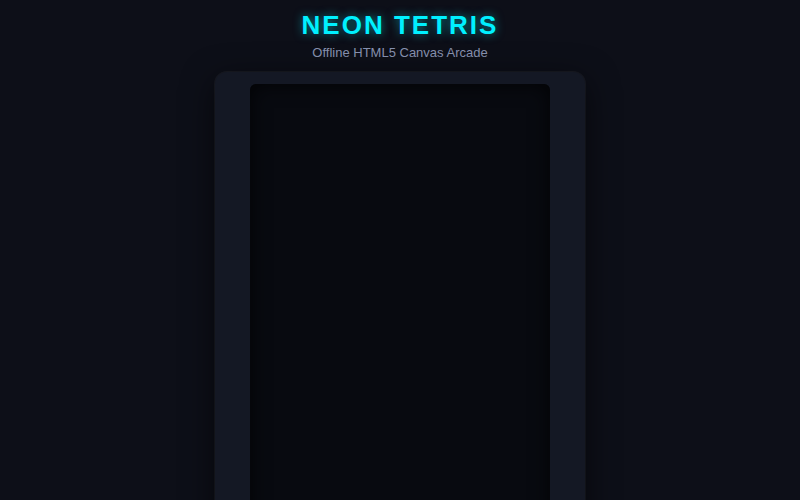
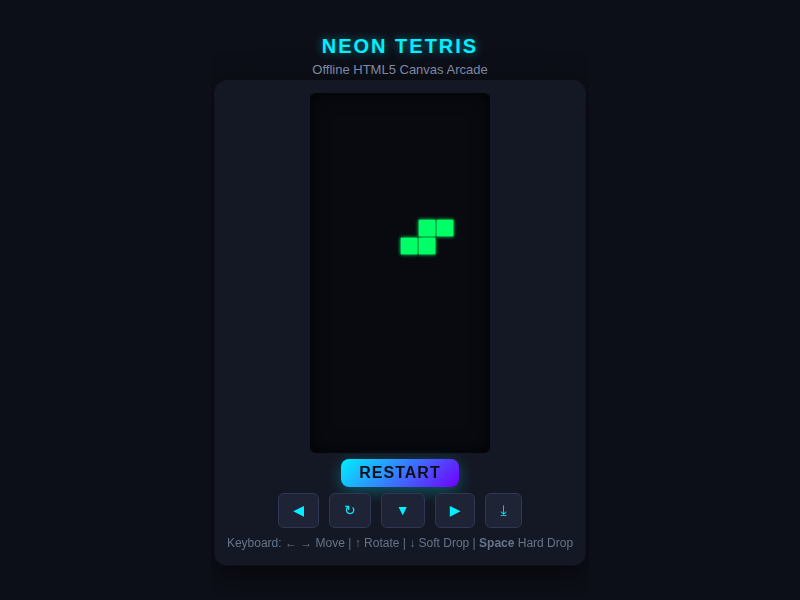
fix(player): resolve sandbox CSP eval restriction, missing assets, and auto-play responsiveness for curated works

Changed region(s): [[0.2812, 0.03, 0.7188, 0.93], [0.5, 0.36, 0.5938, 0.45]]

diff --git a/collections/sources/q1k3.play.html b/collections/sources/q1k3.play.html
@@ -1,2 +1,7 @@
-<!doctype html><html><head><title>Q1K3</title></head><body><script>
-eval(Function("[M='VwwomEHG~ztJrqG]qbjMMuJb_o@SnxnKaOWVj~}oXhOp|ePy[ykD?V?w~mLVrEAiXrDZn^uUtLhBU{wjTxEfiHdAyNb_zw{ztTbkLs^sNK@B~zZGwNExuPyleY~HU_}zFwZEZe]Ehyy`HgFzL}|HAVPVDJxKL@XTuNxWzYgMPx@Q{nvevvF]TwnVugHAMlg^KJ?QB|x|xbbuYzYBj[T`fprFJAfx}ZKrtYEquTFyNQ^|BypTwqWbAlE?O_uQUJK^PfLT}GtlFYLsR{ISuDC~ekJYFD_FLYzAQHN?n|nL}iVbHCwiz^IrAYWwpaRfFmDtN][qMM@PhECNqugaK~^AAIkGPDJZt]yJybvc[XZFO?gXfYuuCR|n|jQkqhpsAG}MnqEOz{hK[H_BdpmTIGnE|{wmfwlam|FlWuIeLxzDoA_Ymy}RKk{RB{CIi?@Y^kHaSQQ}}?bxM@]mHbWGry|dAiIM}hMEV|bSJFpO^qCIOmNaArRD{fGodd~QLOBLJU@MLOHEeFPMKABN}vzzhNI{hWEucHEDnAJkfEPUE?Kt[wcfhUMGDdy{KZsa_yODnoM`PoG{dU{eWATIs]HQEy~EF~mtvTLwLV|GmDU`x[`VMP~G@Xj~jaViZP~mj|GAkd]mHryOrQb~?|KIHKZsRSfHQUxAjeuwxtzIy{kETJ_q}HsTHNyGpgVF[NwEsO}OZgRJBOpDfjm_FYWqRUJ{dizLovBLAvfarEVDwQtacvb@VSgVjihGJX_SkwuMpONiMnrlRfueo?X[UcnIfHltKQ@JD@]JmuGJOApmJ}KULZx?nEGAJskBfrUuDSQohN@n|PqOYHRRZU{bs[kOdjR{FiXnDrhBdTQgnPxuHJEyuJOJ[zztIYj~ASH_VTBeZdytIe?aqJ?D~mIN_]_gJP}H|~cGBpjVpHDlRvKMOraFHz{P`Yywh~[DPdImiji]eYM}pEQ]XGhEXM]qmG`MGxAdgDV]alOSC@f{AL{tH]z}utWqFNmHH~oOsrZqvMfPtJZMwi{S]D|FeFR~@D_~o}Aw?OkJA@y|fRPZ?{[xLYeCnpQ|rc@NlJUtjhASz}Qkpj?v}}WyvrFUdNe~iir{qQlzu?tgLICLxhOZbS?TxOEBygzieNeTFfpamzi~aQbjoRTtuB}fWMIRbf`ifhNHsulyQiV^feLS[aJtvOGBEUjP^ZtbTiyElZzyQJ_XzPf_GKPuQQVeImknER{jIq{MTJ_iOIg?G@[vnHKvzErJUQ{^adaOlcFLrahrLLIEKQmBZA`Wmbn]TZytvTSpditHf|yFFc}JhGECracV[TQlWbQRQzHM|UiS]L@aImWI?swdXCKVvqFNpj`If~[g~PkeO}`jZpriZzBMYOMV?`lXveJXpcS?oDrL]Pg^MOkdmKDpPfHrfWOLSIJkUfOaDNDR|c`cBJDatOko`^qlc_o[mOuB_YfgQWBJAk`oIU[]X|Smj{C]SWbObYR{MiybAaQoKmIE[xKEX?t`gjMmP}}OKsWlPWGlFDjoYB?CfGEIhNkchc_ANQt[oaMC_WrI@wfaGContGvD_sE??LjKLY|huJ{_?w_V[fhSsYP{@FQ~NukyRmqd~LcECw}]BNzaC]hz@IuiC~XyoYpE[p]?rrqBkQcFpQBGjAxpA[_AbL`JyTx`GyKM@{wDBREB~Wdh@ZXcEuAJ?AsGg^}nPtXr_NTt^rmc]?S[@hzhcgx^Pmdh}uut@ly`c]GtspJZR^TK`YqPbQIB{{ZpttanoBSOoTVBsC]GN_P]hVZYzgUVxBdvCioHuRCb_erBq^aVavQp[q^DF`KN[k}O^qIxnF?@~[xIBGNDUBwqyeyOPXHkZzJXbrKyJopdgtY~CG}g[mFbuMn^cotCWpwji|zpJ_r@ok@e{ZnZae@IYO[V{a_KdBZuVGxn{ktHVPzll?`YetuZMmM}@Hm?JSyzn@VlWas~E~MS}Pdz[Cm^Oa~DKaEBbtcDks]U[OkP[gIZFppZ`HFBBLNUtEwP_C~HrAdiSXFE_A}l[lVLn[]hqiIj|KG`zCddjD^TiPDOuAdyslImECqBtdzivaq_i_hJxinTK^BzbWIfx}wyTn_YFzjgiMGo_kZzB]HeCDdbn?_RaooAGXg}hsmz^HADVskEYMpKKr`a{do]Gknm~v{ivOuxfw}pRZHqu}v~ibyvDhkPTdyILG]|x@tw]Ys[wJkzQQH^^GKhOLacc`tJvu]mhGZ}UhudNM`P@Q~N}YJAS~VcVvMG`EAz{pt|ZVVgPLSbfUji^fsf^?U[PoOani[o|Lr]WgVVSjFXYh^}~GIOLxCUH^mbqnKhXDOhjShidkeJwabbMPobU@D^TMEUe`ABjhRTw^PsMC{nfm]zEZgFYm]tnugHvirZ~HeY`~x?VpwWkgwHYjpot_MCnnV_vvkT`yihGaFUuwoctPAkIgreNueL?OOOLg|Z{KpNy[`}?JwV{{oMcFRVr~jpTaxlA?j[Jj@vjXnb[nD[gSiBpIDDwf[XC|Qg}AmhD]LS?nu@XyqU}]vyh]AugQORTpuKDiwghZYx[?gRQKFistlyUKTXHbYxfMi[ymn^ghOXWkoa^f{irFoRbRZySF~EKtkgKhO]|^THccQJoPl_ekaEKNBpUSKwmN}KeaWt|_aWAiMxW}JjRTgZx^SeKrL]wDq?Qt|xVegKuyfKMKhzAzVvxLcJEiB`^MB~Ju}dr|ZXQ|QIuiqdo_~Oz[yPB[LqMIfXMDrojelEAbNNae[IDVabwhPW`j_?cW?U@A?BsgLPjwr_qhJIIm|@MvYVHlSrehPhb^@Fa}SsCwnF{OP}HOIP[WzkEo[L_bKgCwNl[lrEWnAfL`nYVfQ?lDvIwFmEQbYltAvC~PCPncMmuUXxsQdV^fRgU{DedHyYI]VRAfLhaPHCpydkM_?okKTKVNFfZ]{GpX{sjK]obVZqJZRwYdb|pGJIf^kxi{qUBz]?[VpOCXz^ED?VGQ~WyFSBQ~TQ{v{Z||vEgSkBm~hkLBZA]}Dni{jENbyxMEH@{J@KVfu}{WGssoSaL_XB|RlxALHKsjJiJK]OKTvNlymfHSi{qd[OpEavbDH{udwSGFTANRhLqvZlkeSeRwB]DQbyqg~Hl?Q?KX`?vz|Cb}]bo}LtfsfPiXyswuXu|u{v?t_EjC@VFfZoKWyfU^waSBOFj{]~VL~XXlX]aTP?j[lhLrquhC[qq}TNBkkG`CtgbA{`ZW?rpYT|avOAvOmklIYCCnfJbCK?KpOWDN`INfYsLpJYXhabFYNCPf]@hcUW}NknBO][Sa|PVlURdbeqyjuCTADSbFp@LH{D{C_MrkRMFzKA]QiKYKalIbnPF|u|{r`lMlyyDwIuaFg_GGR^keJzl?ByEKgu]SC[Ix``HX@nWOzvRWKJBGRTBPKj~?sYeUdEB`mcq`HrVWYndwyGVSG?kjY`RwCNuzZk~M}PUMpCYx`TSBojTNG@v]_}MQOK]rc@KgnTzvMFFdeQh[Shj[WNLAlL@ZQ}HkCOG?K|PuNF_]^sWgxiVIFEpriqr}^YcvwtOvSKmn]{H?tqkgaM^`kXbpEtTkrykpBmHKf|]qPAU^{pUCXYMxPEwS_WHVTW@v{wrm_plmhCU]nmpTLiqBT~Vh`aj~KhrNfkLmKQWKI?ZXJ{HdoHmbslVsdgrwyYNruuMNc|Z[oIuvvqutJn^kVBuBSyD?[HEBmnDdxhan@pXIa`PPI_RM`KKBHbN|?GBg@cDjornCxRxONpYLqhn@qxOEKZl@HkZZ|m}raJNjvBzklxSLFgRL{okALnzIahUEBTyyufvNGbTC[ku}OGuJDhr?WcyvLSrkZ}F}rhUmtDmkMetwjWwo|UVkl?oWK`igsoOCL@I|oEDKRQYf{py}mOQu`GetwIaoAqG`D]XrLcA`|av^[fJgTQf[zin?[HzC?bFkcCT@ysojCcts~~S@dPAxIuoRN~E^rvGqsoWsyiZYFRkVMydZOApR~GMAEmHCbq|Zzqd}rDHGW_G]JMC{sppfBDN@@l_ZQZ^|bpxzCut?t|bVrR@`AbAaVsRQ_AxSlVxl[RKLCSr_qOJH}qqtZGhBmm|iSxNIkJgcR]`OckVM?IyeiKtcJWeu|BOcw`QSI_^`gLHExSVbmtOO}VK?uXSIEYGaCIU@IkiYApdugdvAMOZKODyy~zPQK^k}Ibli|_pM{b~IBaVb~V|HMyiEQwsbYMtVvMuwCdP_aADhnfvS}sKsPB@QB}B@ZF[KbTyMBtTF^`@iDLvSkHgQcO|SqpDlk`ZA^LC@DCt_r^KAkZweRliQzVOB[R[j@jhx?LoKp]hNY|`rKB]YQY?FEeeDSqQNGFXshNYVOn}RghLaDBK}}SecvKlPFU|EydNZn?yNwqDLoPwBRJryrwA@ITrOK~@sJMZFxpF_jqp_ncQeJoZVyJU?c~[Dt@QhjTtEQ|^nmjbhQ|jSN~]AFFUg?pyHJ~_HuRotXKRljf?ahV~RbYtLH`WktDuGtnqg``^zhdux~tyy`|U}nsULAPAQfjnq[L}vsrBN[B_|Ww`jtJYQux^~fGMpc]`ddAU~zc}?sMrasZrh{CMDdbGfBJ{sN[@hmp^mrr@@VmDW~fmlMbHBygIn]VBBzOfPmcR]HcM@FlrgDxjF{yrvDSrjPw`oaqBHBhyQZX{o~Jf]XH{w_LtllkZg[?I^DaIVaEa~xMJPAFqH}kVfTvlCMbZsh]ANhZVWYHWjlQvw|ANiZB~uwVpCy|}os`RnCRqzd|@tCLwV_tcLyimW~|_cXwRYw@iBBR^QZOi`hrxIvV^LZVRaAe?~NV?fvsNcLdWjid{uui]v|xdPoTTKwgFyTE}n~DX~o|aBBizxabvOJ}WzugTb^]TXRGiyrK]GjDLBtpSV^RHTyXw[hlNqL@AsHX_}ZsS`xhS}QChgDla}}WWeJcDJqwGkK}oQrHeKt~wED[p_wuDwdNau_@PPYMPfbzKvgaCfEVSWwaCzhfmFUNepvuVaSjJmQn|WZUxQZ]Fm|jXKRyWcnlmGgrR]h?JcMOMH`wIglT@{r`VRUdJaczZTEbL~xpxE{IztzGysZHMd{ntTdTy[tfiTmXnvOek|aACCglMHfaPv[BTEu@kklXDWEWhKjj^utRpjd{roYnsrCbyJRh~~iVWJ~xJ||MMo^mb{SgieZFWynxpcX@yJ{m~IH_UrtQL]QFHileX}N]QbxJ`|K`aBYk@IEYx?aiwZYfbwkugPv~qa?NENewHOx@WebyTFGiqGfashb``N@`FhhxPp`yfNMi?Gx}~YlzKouZcUPnQviOD_avHlSkih@glmK}r~mDIKmu?j`t?qqhVps}BZ^MbutqNPJqox@mH]Xtf[PageqRzqOTWskLjWk{IW{jYPw?|QGbf^DEiYglZKAG?ZZstuPeMblf]|Wst^CtqpJL@AhIZWrshe|`SwKDytBDJDNqzHoNavO}q^lsaiEl_R_y_[qmG~YM[CJtcdne^JT}fqA|HPpdKTtcaMH~pfHdSAfggFHqR{YfGQjHw@^NbUVZNHoRoTRWfPP}D?cUwwEWLQ?lj@AlSex@gROKYTzsBY^}VKW`LuGzXwRY^YGpapzTgoB@_hvtQWItDWPIeCWJHDBk[HVjxgmuQ^Lf@ifd}lyBwSTJ^oqYolrUlb_DoGILK[T]bb]Wb|XRaKWXjjFz^Izlcbl}FYTAKtTx[UcdTxuiz}u~ehVOowuFF~F}l[tG]uJK^ElAQ`{IKfNWc@nyFPdYwuOa]`vJ^b||StTHr~N~YUDqBhF[ktK|Ga}xzApiv|bF`K?MtT`{B{@YN?`[VOLiQW[nIL[jfcdlIaXQ~{pnaxoe~IJGDFvLfd_[aU`FITQFilGjE?[ze`GjjaAW_zCtPqHNygNFJkkxlwo}X~Kxu@^P]jtA}DKeatAcNO}og^W]fXuEq~g{RAOBt_bmqf^PirkRYcFDkOiIMsgugw[ngiO?ff^tTQ`H[zc?TQZVoFlbmDSv^eJzOHBtcr_RFNOMJ|Grke|lqQKhNQCxuhf@Zs{TOKZBbQBqLBTArFyqCyYrK^Vy?DoCBnCwE{qjO?h|jFj@sOgMTT_WQXACM~JfKtNPYKGp[BcE`dPUUSpHPVxeTZzkoyZ^MigBI@SdgcTE_xDPMrVsE]MHHAl?LuhF_lWQTnaxAaSSWA^PWxFAu[nBAE@GHtf`Ayl]WMZgDSFE_fnjtP]l?HAhx|yIfCzXh?AFASZa]~UcAhV~sAbjWNJkOw[VXVUf{A^M^@P?SIN^oyhChJpqUH}H^MEIf`JBJFGmtwQ?~ln~~Xps}kIZSM_XhYhlYDZmLRGNZdmYa?XlQXGR|zspetOixtlqSorQjzK``bhXCyvhOUuqx~rnwxgiOyz_EArSmxcYapeSS{KgV[?URYRKM]Kkv@@h@fwTksZ_inepCcejxEP?hk]XWH|vIDSHiRmrglzdiWXTPJYKFjb~NbcrsVa~_sMi@iFqEPIbuWNkHDsRW`XrNOWmJ^hK?D{d^E_gvop_?ztZ}NNDkQaMTms_Hi{[}binScGGq?llhia~tZw_JYqiwA`x{NVNSH|b}dXI~[^hml_iCgUud^{BI}zLTEaWo@zk^j_zlzRG]rAxoJ{lsgDdGkqJt`DQA{v@SpfmxJzLebCuHFFg``{qQqQFeGceLpiiHizgqv~[TXT`?A^oHu@uj?F{zcBzvK^jlr}^V_^pfd]vZiVWeD_SXmj_WZvzLIMOZw{]eQgJhHfTmY|wAREfNmqdG~hoFJM[JDIg]araY|FOpBGOu_kem|q^LVaXQCB}tcExuVrEt[}BIu`^ho_Rdwt?NresKXULg^WP@rqDDMhhqXGKVO`fR?JcOIIZgCDRQ|F}SKPa]VLYoJ}i?JXM~iLOIOZ]yghMdSkx[bhq@y]ZLHTtSTiotuTVBCCx{{j_n^L}iitDE}C_KTMjVZGAFVyiho?|}VDSJmNJiAFrD@[MC~OsncL|TzOJBXRAoLv^dS`}}mfh{]DOVedAfMb@tYAQOfek[hi}}Jl^[AVkBEMB@rfgEfm`uJ?DOniepeG_SLmyXzpwCuJ?vECPlk~~gLsuqC~uatHLiji@?XY^VNNdckjrrjfi{XHtm[bji`pTdver^@wVXPovJK^eG`MH^BCD^bMac`C_iGuPt[WcUI`fCFCVH@LbOOKmihHKIn}FiXw_vfEz}BXmzcQZ`i||Z_Zjvfhu{h~TbbUJ[tUVyqK~pUCfPo^|hpjSSyKyNsvqxbF`TxxW~I?DZcJGEtHZ]UZqXlXsQj?fyYoo^BiHwVhp_~nI_x_EGpbRuZDBDLqzqnf?KB@llVgCtbOmmCwEthsyU[EZF@uZdxk|gSwjd[K]QuZciKNwM~Kq]dFRu`fjFpU|bGy^srV_kU^UMy`e]SDHl_vh]?TyDVUd^tNxjwalbKGXfhQ]Eve`{wS]kHVQQXgifgMqWtB^TWrWgAlOh{~[rFe_T[?`Ov[L]hdog{zVKUknuS`ndWq@Oih{RJN@kMvzKz^FWwwAaWHuM|WE^cumNq@~zwsOPkyCqyHtCOL@cxeAz`kw`@DBxMqUrHLAw@cBxptcw[qXyoqiiLlftlJwfZAbjOQbKj{oFfyk?ba?_X~hMTQZTAP@LZ{`AB}yNxElPWRxMTHXcGhqF[CnaDXplXGGaeSKHzWDK{mh]LRKsKF|GEe_ZAhscwZRchQH[OywqmXa?E{?fcKqZdDmuNl?lk[VXW~|]BVEh~maIS}txoh_upqApX@[VcYervwCKptqehKM{wBWx`ICii{ot|pg^`mSjQ]An[wDrga_Vs@aLhdSSx^NLL@|AN?|zjyuWi^?q_|nf|fDlpaiS~`ZbPRKc}VNMoVcWQiYCZLzZU?Ebh}lhWHHq}]qTUEb^vSiCcjP]pBZA|CelkaIZISFlIOP_Y{YfNg{UuLG{aBK|xJMRddjAf`nPy|[L@LhThjD[NEfvG~LxVRQqwuBZhPUXa`UXiOFmDvpaaFmT~VvJCp~_~e^?bQT^Q||TJUqEi]n`TfL@@HuJVGqqCadDSU{Sqt`DgunSkHYj`kQNwfGNuLtDm@rkzMv`XoUjwJUwosTY[V@~IkPmsflY@a^BlQGXTtW}^@|K]^{PxTTuiGKuaT?`tCSYZxb@gmEU`]Nz@gmPzx`gkFMd}mvkbhFMD?yEirXQaKm|[SACkhDczqPRSxiTCQxPnR_?K@?|LUeveZQhUNhSGNGzW]}kbBVMyZOul~DDLS@r[UaLkJoPrYQyth|K}pQ`q]w}]GynlBydqqsLoBBk|TYBcSGVKwYVFNX~GEvHYnnGjaYIfD]n~|MbhnIxVAphbe`n]i{RlanUHXxam~p}QIEInHrAksCGBxMQgp^ZzGWw{hLCmLwwVQOi[elUIQnJEuiqtIroKGoo|fqIFYHHEvZTbhjTJZe@g[zFKbh?biQlAa_S]QyUzAtLrkzpXOTq@SQ}rHehgmqoYJxntEgMB}UXyrm~ipYniNOIcHeRTrAL^U|?fLWd|@}CpJIkoGKI|uvd~sgwZmqWtq~dZpmCCLzcZyNRiO[OghRtJQngW}LDtJeVsSUnobcmRWFe^WkBOoALYPA^eCBGqdR_fecttmNdGY]Zxrhxbtoa}gnJ|wMgTkgRlko`SvN_g?ILSIjAf]moYnnSwwT]gE}]`AtrboX]ylbZP[TUeVHO^PvXUYje|V_`_t^qaVo]_PlxGiVEqbULvczNfRkTbBpHvadbsNM`huPkshEuhRgU^xDnV_Bq~CRhjMfZFIdlrcumagumd@uoxvftlilRYTfd^ZNAskxjWM_REemyXJLqNvmJg?PXKhjRVaomvYACGbIidKKjDUubPKw[HNfVXE_Gz{qM?QstsRz]|ABf}rfASLX[{[mb|fDcfjtK]`NuaHZJLxyFj?nzSXuzsQjfxybc}MXGmvx[~~LUW@LO{Fg|{cJcKc{aHpqIUg{lYLrcvFp{elX|LkuVaKj]rE`sniXUlJ}?aoOVVI|FtwJPm?qk@FdXkgA@?E[zojU|Ld[|EpD]lUouMTWJpfZcoFYvFZ]TtL~Y[?W|ItVy|lAhe^dQYg`ex~K@WHGlZQJDsGpcBlFvflzx{jAkUOwnzbFv}CBjGwxghlkNB^`BxSxFzJ{~CeFUMHulSezMqTUkiuFu~HzIWyK?WuTTp~cobGrXZvL?q]mX{wbGQ@RlJCfUvMd_mAFuqvbqnTS~wjIeW}o^AyQzwWXOmdm]G]OoHMF?htGa^pSodAgODpebEjUGcnTnfDZFCy?gxoj{mMtJrVaIzaQFESLOH@pVc]lSDwr?o_Hdrt~Lx]Ykj^crrSCBKLzweeXzkjUOiVvYsDF[HazTn^XB}Wl|QBu[FC[uZliVZ@|OGmJrkcR^nwviUr}l|nim[ffSeuDz~|Hu~?r@FDmuXyPXwlBw}lNtIzo~E|V_C~cSnw^ud`nU|zv^yxWSSVCKqPqXbipofEhG@K}mWfBbxlHuYS^t]gCrTtYpnjcSAyiJaTojbV~EruwdWZUJCXInX{eq[usrO~^HEJjE?v^]PH?tqQ[FbjbhCAh]csdMZ}VYYnfegMSzmMcmzgAHTO@hHuZcUCmok~bW^Z]Ay?co@LHOKvmaElxvbi?RZpBCjem}qohfwkdjfXLFfEILBBqfJnsaVyI@~bxGmWVwCU|jC~igfGcsxVsWa@ZQrduCxB`sX}JNgyV]sRct^t@gWFncLycbzZn^eu~|ONq?{HQvrtky^@]SfnL|CWzjRw]o^NyGpxGunfWv`f?JHlTUpPJy~eWHd_LhMXaiuM}U^^[rjlTPgIaoys]WDzD|jEA{TFnadYjAc?lahpi^qqrWJj]|jWVetRHIRp`Wz@a~lXdXZDu^LSy^kcZd`mbqan?ttkn}cZEfwa_~N{Z[{tfLaJ|OW[jN_aCYRSySpiYzIlWA?giz[IE[mgixTGrRqTYSCV^~hCFkYIjRtDeHW{^EzfiU`VC{V@{YtZ`Au^{Q]dJ[fvbNSX@mgHSQNqugquzq_mkVoMtM@}UizzNdMRYS[?^i~UBlre[yaGwukLb[woMkptwLi[U]Y{?sfs{QQFg{Znk]qjvgKIEM]XDZJuHpGBJieNnWqi]~]zqOrMK?IR[UG[fh{fy|vSaAOTC[tJuGhpdUOHIsfixKaSyU|y``vhYLqvO^cRxLuzraY{KrgHAAdixuu}EoINzcDsoWKGG|PMv{[]tGEO}Lx|AtvrgegXFCt}{rlqhkeH]CUG@}hM{]M`~dsYvTDk`Z[RxR?r@QUYAf~APu^d~{SBA^xKGscbTiRbLzsi`krEx}QSqvz`B@cGFJdopOsIFLNWIcAH^tOW~]MXwYNL{[eWw^pf{Kayude[GhmINoDVe^?pWyKl}PMTbM@TuiKoUjWakbtXSqYim|JkVnzJI|KhUsWfTpKMY[P|ZvJZUqrCc]vdcIumOQzlEKNUtBxXkHQ~@v]ej^_kEXIdkPHa@kYzKLkIzN^@qfsnGwkM^NPKuVpHxhBKLwzUx^vSMQzqqReeFiK[ofRoHG@P_fRW@ndmzrosAcrKxc?}||jlFfuXqeWPYreUU?{WjsSNBbar}zJB[CY_yF`~]gcnOL[vlak^l[LpEcOkAdsLTGNxgGyiOtdjlwV~_[[R[TCy{ojbmw~ldaTmImWFJeKy[MR|WgpWFEcVEmTYlceT~dzm|C`dd}UldSjndYthd[N]RJlrECFTH@JIXiy}cHlwskIku{[J^nrVgPQOLf[foNYUBeRK{^I^sgHL`?t]yJOqR~PddeGCZsky{Gq@TlOMl?Fx_y_cPBrnL?gWLhQ|xp@Z~PPLTm}@SHQtPjOiI@UmbA|hgC^MOrGFuheYXWGONehUdRgl_fgzs@GoQ[WasZJj|oo[ZrSS`TYA`?^nJHEGFZsNtYwE@WKgEgONCt|fS~EeuI_sKajCcwhOot[kamVLQzq{`H|bJw[vHgjOBqrBpWqSplwrVK[Nmcaec~ZxY^h]iCPbbVvQOntEJa_x|?K}tCRwjWr^wNB|a|d|lThx|?pgDi`cIwe^Q}meTQ@F~@wEcd@zDPPoZIdy@XDXoJ~]YY|`]pBTzxQtvyUSUgZjy{f@zH`k^`Tzamaf~xAmxMFkfIKGBwPzQPPPVsMoIwHOy|X~FRfkIP`iunHgaJwDY|lFqw~_`['",...']charCodeAtUinyxpf',"for(;e<23471;c[e++]=p-=128,A=A?p-A&&A:(p==34|p==39)&&p)for(p=1;p<128;y=f.map((n,x)=>(U=r[n]*2+1,U=Math.log(U/(h-U)),t-=a[x]*U,U/930)),t=~-h/(1+Math.exp(t))|1,i=o%h<t,o=o%h+(i?t:h-t)*(o>>15)-!i*t,f.map((n,x)=>(U=r[n]+=(i*h/2-r[n]<<15)/((C[n]+=C[n]<5)+1/19)>>15,a[x]+=y[x]*(i-t/h))),p=p*2+i)for(f='0102021032104310432052106542076109651098632'.split(t=0).map((n,x)=>(U=0,[...n].map((n,x)=>(U=U*997+(c[e-n]|0)|0)),h*128-1&U*997+p+!!A*129)*12+x);o<h*128;o=o*64|M.charCodeAt(d++)&63);for(C=String.fromCharCode(...c);r=/[^-]/.exec(C);)with(C.split(r))C=join(shift());return C")([],[],1<<15,[0,0,0,0,0,0,0,0,0,0,0,0],new Uint16Array(51e6).fill(1<<13),new Uint8Array(51e6),0,0,0,0))</script>
+<!doctype html><html><head><title>Q1K3</title><meta charset="utf-8"><meta name="viewport" content="width=device-width, initial-scale=1.0"></head><body><script>
+const __DATA = {
[2 lines of base64/hex data omitted]
+};
+gs=()=>{document.body.innerHTML+='<style>*{font-family:sans-serif;}a,body{color:#fff;background:#111;text-align:center;margin:0;}#c{display:block;width:100%;image-rendering:optimizeSpeed;image-rendering:pixelated;max-height:100vh;object-fit:contain;}#g{position:relative;margin:0 0 32px 0;font-weight:bold;}#ts{position:absolute;bottom:2em;left:0;right:0;font-size:1.2vw;}#msg{position:absolute;top:8vw;left:0;right:0;font-size:1.2vw;display:none;}#a,#h{position:absolute;bottom:3%;left:20%;right:0;font-size:3.2vw;}#h{left:-20%;}h1{font-size:16vw;margin:0;}</style><div id="g"><canvas id=c width=320 height=180></canvas><div id="ts"><h1>Q1K3</h1>CLICK TO START</div><div id="h"></div><div id="a"></div><div id="msg"></div></div><p>MOUSE SPEED: <input id="m" type="range" value=10 min=1 max=50> INVERT: <input type="checkbox" id="mi"></p><p><input id="f" type="button" value="FULLSCREEN"></p><p>code: <a href="https://phoboslab.org">phoboslab.org</a> / music: <a href="http://no-fate.net">no-fate.net</a></p>';let t=[[64,64,0,2,3,1.4,2,17176,1.3],[64,64,38751,1,18,4,2,2,27,9,65530,0,7,1,-1,9,13,5,52,8,8,65528,39039,4,0,0,0,64,512,15,4,0,0,0,64,64,14],[64,64,38751,1,18,4,2,2,27,9,65530,0,7,1,-1,0,13,64,52,64,8,65531,39039,4,0,0,0,64,512,15,4,0,0,0,64,64,14],[64,64,13119,4,1,0,0,64,64,15,0,24,11,17,50,65523,2,8],[32,32,21839,1,0,2,10,2,11,4,65528,10,25931,4,0,0,0,32,32,14],[32,32,17487,0,1,1,30,30,65528,11,21580,4,0,0,0,32,32,15],[32,32,30015,4,5,0,0,32,32,15,1,5,4,2,2,22,6,65522,0,8],[32,32,8751,1,1,1,8,4,11,5,65524,15,17487,4,0,0,0,64,64,15],[32,32,13119,4,4,0,0,32,32,15,1,10,3,11,6,25,10,64536,64568,65519],[32,32,8751,1,1,1,3,3,4,4,65524,14,21565,1,1,-1,15,1,16,16,65522,7,0,1,-1,0,1,15,16,6,65521,0,4,4,0,0,0,32,32,15],[32,32,8719,2,63506,1,4,0,0,0,32,32,12],[32,32,21295,4,10,0,-4,32,298,10,2,4372,1],[32,32,8463,1,-1,1,35,1,35,4,65522,10,34399,0,-1,6,34,6,65526,2,34399,2,29479,1,4,6,0,0,32,32,5],[32,32,5535,4,0,0,0,128,64,14],[32,32,8463,1,0,0,3,3,4,4,0,10,65521,0,4,4,23,23,10,64885,21551,3,4,16,13,0,11,"::][::",4,0,4,4,26,26,15],[32,32,8751,1,1,1,8,3,11,5,65524,15,17487,0,9,6,14,13,15,65525,4383,4,0,0,0,64,64,12,3,10,11,20267,0,8,"---"],[32,32,17487,4,5,0,0,32,32,15,1,4,4,3,3,22,22,65523,7,30587],[64,64,38767,2,36875,2.5,1,4,10,15,8,39,59,15,15,8463,1,3,30,14,5,15,6,12813,4367,38671,0,20,1,22,6,13119,10,38671,4,0,0,0,64,64,11],[32,32,40975,2,63308,1.5,2,63751,7.3],[64,64,13119,4,17,0,0,64,64,15,0,0,29,64,64,0,0,89,4,4,21,-6,22,24,15],[32,32,13119,4,9,0,0,32,32,15,4,8,6,-22,21,32,15,4,18,0,0,32,32,4],[64,64,13119,0,0,0,64,64,0,0,64271,3,-1,50,33795,0,32,"XXX",4,7,0,0,64,64,6],[64,64,34063,4,7,0,0,64,64,12,2,12554,1],[32,32,65535,4,12,0,0,32,32,9,3,6,30,61455,0,25,"+"],[32,32,5903,4,12,0,0,32,32,9,3,5,14,65529,0,12,"NI\u0418"],[32,32,64271,0,12,1,7,30,65528,8,63247,4,7,0,0,32,32,8],[32,32,13119,1,1,1,14,14,16,32,56328,15,26399,1,-7,17,14,14,16,32,56328,8,26159,2,29706,1,4,0,0,0,32,320,14],[32,32,33567,1,1,1,6,30,16,31,65526,15,33823,1,9,-14,6,30,16,32,65526,15,29743,2,55625,1.5,4,0,0,0,32,320,15],[32,32,12559,1,1,1,14,14,16,16,65525,7,21295,0,1,1,14,14,65525,0,34399,0,17,17,14,14,65524,0,34399,2,8,1.5],[32,32,9503,4,11,0,0,32,32,12,1,1,1,6,7,6,8,65521,0,4],[32,32,15,4,18,0,16,32,32,15,4,27,0,-16,32,32,10]],i=[6014,21,88,[[[7,0,0,1,255,0,7,0,0,1,255,0,0,100,0,3636,254,2,1199,254,4,71,0,0,0,0,0,0,0],[1,1,1,1,1,1,1,1,1,1,0,0,0,0,1,1,1,1,1,1],[[126,126,0,0,126,0,0,0,0,0,0,0,0,0,0,0,126,126,0,0,126,0,0,0,0,0,0,0,0,0,0,0]]],[[6,0,0,0,255,2,6,0,18,0,255,2,0,1e5,56363,1e5,199,2,200,254,8,24,0,0,0,0,0,0,0],[0,0,2,2,3,4,2,2,3,5,2,2,3,4,2,2,3,5],[[0,0,0,0,0,0,0,0,0,0,0,0,0,0,0,0,0,0,0,0,0,0,0,0,0,0,0,0,0,0,0,0],[132,0,0,0,0,0,0,0,0,0,0,0,0,0,0,0,0,0,0,0,0,0,0,0,0,0,0,0,0,0,0,0],[133,0,0,0,0,0,0,0,0,0,0,0,0,0,0,0,128,0,0,0,0,0,0,0,0,0,0,0,0,0,0,0],[125,0,0,0,0,0,0,0,0,0,0,0,0,0,0,0,0,0,0,0,0,0,0,0,0,0,0,0,0,0,0,0],[120,0,0,0,0,0,0,0,0,0,0,0,0,0,0,0,0,0,0,0,0,0,0,0,0,0,0,0,0,0,0,0]]],[[7,0,0,0,87,2,8,0,0,0,16,3,8,0,22,2193,255,3,1162,51,10,182,2,190,0,1,10,96,0],[0,0,0,0,0,0,1,1,1,1,1,1,1,1],[[149,149,0,0,149,0,149,0,149,149,0,0,149,0,149,0,0,0,0,0,0,0,0,0,0,0,0,0,0,0,0,0]]],[[8,0,0,0,65,2,6,0,0,0,243,3,0,200,7505,2e4,204,4,6180,81,4,198,0,0,0,0,6,131,0],[0,0,0,0,0,0,0,0,0,0,1,1,2,3,1,1,2,3],[[132,0,0,0,0,0,0,0,133,0,0,0,137,0,0,0,0,0,0,0,0,0,0,0,0,0,0,0,0,0,0,0],[132,0,0,0,0,0,0,0,133,0,0,0,130,0,0,0,0,0,0,0,0,0,0,0,0,0,0,0,0,0,0,0],[132,0,0,0,0,0,0,0,133,0,0,0,125,0,0,0,0,0,0,0,125,0,0,0,0,0,0,0,0,0,0,0]]]]],n,V=44100,W=4096,Z=W-1,$=new Float32Array(4*W),e=(t,i=1,s=0,h=0)=>{let e=n.createGain(),a=n.createBufferSource(),r=n.createStereoPanner();e.gain.value=i,e.connect(n.destination),r.connect(e),r.pan.value=h,a.buffer=t,a.loop=s,a.connect(r),a.start()},_=(t,i)=>{let s=n.createBuffer(2,t.length,V);return s.getChannelData(0).set(t),s.getChannelData(1).set(i),s},p=(t,i,n,l,o,s,h,e,c,d,a,r,_,p,f,u,v,m,M,g,x,y,w,k,b,A,F,T,E,z,U,D,q,C)=>{let N=C*W,O=a*W,S=v*W,Y=Math.pow(2,T-8)/t,I=Math.pow(2,D-8)/t,K=0,j=0,H=b/255,L=0,R=0,P,X=(n.length,M+g+x-1),G=.00390625*Math.pow(1.059463094,i+12*(s-8)+h-128)*(1+8e-4*e),Q=.00390625*Math.pow(1.059463094,i+12*(r-8)+_-128)*(1+8e-4*p);for(let r=X;0<=r;--r){let t=r+o,i=$[N+(t*I*W&Z)]*q/512+.5,s=0,h=k,e,a=1;r<M?a=r/M:r>=M+g&&(a-=(r-M-g)/x),e=G,z&&(e*=i),c&&(e*=a*a),K+=e,s+=$[O+(K*W&Z)]*d,e=Q,f&&(e*=a*a),j+=e,s+=$[S+(j*W&Z)]*u,m&&(s+=(2*Math.random()-1)*m*a),s*=a/255,U&&(h*=i),h=1.5*$[.5*h/V*W&Z],L+=h*R,P=H*(s-R)-L,R+=h*P,s=[s,P,L,R,L+P][w],e=$[t*Y*W&Z]*E/512+.5,s*=.00476*y,n[t]+=s*(1-e),l[t]+=s*e}},s=(t,i,s=5605)=>{var h=i[20]*s>>1,e=i[21]/255,a=i[13]+i[14]+i[15]+32*h*e,r=new Float32Array(a),a=new Float32Array(a);return p(s,t,r,a,0,...i),u(h,e,r,a),_(r,a)},u=(i,s,h,e)=>{for(let t=0;t<h.length-i;t++)h[t+i]+=e[t]*s,e[t+i]+=h[t]*s},r={W:1,p:1,A:2,e:2,S:3,o:3,D:4,i:4,Q:5,E:6,c:9},l=[0,0,0,0,0,0,0],o=5,d=6,v=0,M=0,x=0;document.onkeydown=t=>{var i=r[t.code[6]||t.code[3]];i&&(t.preventDefault(),l[i]=1)},document.onkeyup=t=>{var i=r[t.code[6]||t.code[3]];i&&(t.preventDefault(),l[i]=0)},document.onwheel=t=>{.1<tt-x&&(l[o+(1<t.deltaY?1:0)]=1,x=tt)},c.onmousemove=t=>{v+=t.movementX,M+=t.movementY},c.onmousedown=t=>{t.preventDefault(),l[7+t.button]=1},c.onmouseup=t=>{t.preventDefault(),l[7+t.button]=0};let y=(l,s=-1,o=0)=>l.filter((t,i)=>s<0||i==s).map(i=>{let s=0,c=document.createElement("canvas"),r=c.getContext("2d"),n=t=>"rgba("+[17*(t>>12&15),17*(t>>8&15),17*(t>>4&15),(15&t)/15].join()+")",d=(s,h,e,a,...t)=>t.map((t,i)=>{r.fillStyle=n(t),r.fillRect(s+[-1,1,0][i],h+[-1,1,0][i],e,a)});for(c.width=i[s++],c.height=i[s++],d(0,0,c.width,c.height,0,0,i[s++]);s<i.length;){let t=[(t,i,s,h,e,a,r)=>{d(t,i,s,h,e,a,r)},(t,s,h,e,a,r,n,l,o)=>{for(let i=t;i<c.width;i+=a)for(let t=s;t<c.height;t+=r)d(i,t,h,e,n,l,o)},(s,h)=>{for(let i=0;i<c.width;i+=h)for(let t=0;t<c.height;t+=h)d(i,t,h,h,0,0,(65520&s)+Math.random()*(15&s))},(t,i,s,h,e,a)=>{r.fillStyle=n(s),r.font=e+"px "+["sans-",""][h]+"serif",r.fillText(a,t,i)},(t,i,s,h,e,a)=>{r.globalAlpha=a/15,t<l.length&&o<16&&r.drawImage(y(l,t,o+1)[0],i,s,h,e),r.globalAlpha=1}][i[s++]];t(...i.slice(s,s+=t.length))}return c}),w=(t,i,s)=>t<i?i:s<t?s:t,k=(t,i,s,h,e)=>h+(t-i)/(s-i)*(e-h),b=(t=0,i=0,s=0)=>({x:t,y:i,z:s}),A=(t,i,s)=>F(((t,i)=>b(t.x,t.y*Math.cos(i)-t.z*Math.sin(i),t.y*Math.sin(i)+t.z*Math.cos(i)))(t,s),i),F=(t,i)=>b(t.z*Math.sin(i)+t.x*Math.cos(i),t.y,t.z*Math.cos(i)-t.x*Math.sin(i)),T=(t,i)=>Math.atan2(i.x-t.x,i.z-t.z),E=t=>b(t.x,t.y,t.z),z=t=>Math.hypot(t.x,t.y,t.z),U=(t,i)=>z(q(t,i)),D=(t,i)=>b(t.x+i.x,t.y+i.y,t.z+i.z),q=(t,i)=>b(t.x-i.x,t.y-i.y,t.z-i.z),C=(t,i)=>b(t.x*i,t.y*i,t.z*i),N=t=>C(t,1/z(t)),O=(t,i,s)=>N(((t,i)=>b(t.y*i.z-t.z*i.y,t.z*i.x-t.x*i.z,t.x*i.y-t.y*i.x))(q(t,i),q(s,i))),S={antialias:!1},Y=c.getContext("webgl",S)||c.getContext("experimental-webgl",S),I="precision highp float;varying vec3 vp,vn;varying vec2 vt;attribute vec3 p,n,p2,n2;attribute vec2 t;uniform vec4 c;uniform vec3 mp;uniform vec2 mr;uniform vec2 m;uniform float f;mat4 rx(float r){return mat4(1,0,0,0,0,cos(r),sin(r),0,0,-sin(r),cos(r),0,0,0,0,1);}mat4 ry(float r){return mat4(cos(r),0,-sin(r),0,0,1,0,0,sin(r),0,cos(r),0,0,0,0,1);}mat4 rz(float r){return mat4(cos(r),sin(r),0,0,-sin(r),cos(r),0,0,0,0,1,0,0,0,0,1);}void main(void){mat4 mry=ry(mr.x),mrz=rz(mr.y);vp=(mry*mrz*vec4(mix(p,p2,f),1.)).xyz+mp;vn=(mry*mrz*vec4(mix(n,n2,f),1.)).xyz;vt=t;gl_Position=mat4(1,0,0,0,0,c.w,0,0,0,0,1,1,0,0,-2,0)*rx(-m.y)*ry(-m.x)*vec4(vp-c.xyz,1.);}",K="precision highp float;varying vec3 vp,vn;varying vec2 vt;uniform sampler2D s;uniform vec3 l[64];void main(void){gl_FragColor=texture2D(s,vt);vec3 vl;for(int i=0;i<64;i+=2) {vl+=max(dot(vn, normalize(l[i]-vp)),0.)*(1./pow(length(l[i]-vp),2.))*l[i+1];}gl_FragColor.rgb=floor(gl_FragColor.rgb*pow(vl,vec3(0.75))*16.0+0.5)/16.0;}",j=new Float32Array(524288),H=0,L=new Float32Array(192),R=0,P,X,G,Q,B,J,t0,i0,s0=[],h0=b(0,0,-50),e0=.2,a0=0,r0=[],n0=(t,i)=>{t=Y.crS(t);return Y.shS(t,i),Y.coS(t),t},l0=(t,i,s,h,e)=>{i=Y.geAL(t,i);return Y.enVAA(i),Y.veAP(i,s,5126,!1,4*h,4*e),i},o0=t=>{var i={t:Y.crT(),c:t};Y.biT(3553,i.t),Y.teI2D(3553,0,6408,6408,5121,t),Y.teP(3553,10240,9728),Y.teP(3553,10241,9984),Y.teP(3553,10242,10497),Y.teP(3553,10243,10497),Y.geM(3553),s0.push(i)},c0=(t,i,s)=>{Y.clC(t,i,s,1),Y.cl(16640),R=0,L.fill(0)},d0=()=>{Y.un4f(P,h0.x,h0.y,h0.z,16/9),Y.un2f(G,a0,e0),Y.un3fv(X,L);let t=0,i=-1;for(var s of r0)i!=s[5]&&(i=s[5],Y.biT(3553,s0[i].t)),Y.un3f(Q,s[0],s[1],s[2]),Y.un2f(B,s[3],s[4]),Y.un1f(J,s[8]),t!=s[7]-s[6]&&(t=s[7]-s[6],Y.veAP(t0,3,5126,!1,32,8*t*4),Y.veAP(i0,3,5126,!1,32,4*(8*t+5))),Y.drA(4,s[6],s[9]);r0=[]},_0=(t,i,s,h,e,a,r,n)=>{r0.push([t.x,t.y,t.z,i,s,h,e,a,r,n])},p0=(t,i,s,h)=>{j.set([t.x,t.y,t.z,s,h,i.x,i.y,i.z],8*H),H++},f0=(t,i,s,h,e,a)=>{var r=O(t,i,s);p0(t,r,e,0),p0(i,r,0,0),p0(s,r,e,a),p0(h,r,0,a),p0(s,r,e,a),p0(i,r,0,0)},u0=(t,i,s,h,e,a,r)=>{var n=s0[r].c,l=H,o=h/n.width,c=e/n.height,d=a/n.width,_=b(t,i+e,s),p=b(t+h,i+e,s),f=b(t,i+e,s+a),r=b(t+h,i+e,s+a),n=b(t,i,s+a),e=b(t+h,i,s+a),a=b(t,i,s),s=b(t+h,i,s);return f0(_,p,f,r,o,d),f0(n,e,a,s,o,d),f0(f,r,n,e,o,c),f0(p,_,s,a,o,c),f0(r,p,e,s,d,c),f0(_,f,a,n,d,c),l},v0=(t,i,s,h,e)=>{i=w(k(U(t,h0),768,1024,1,0),0,1)*i*10;i&&R<32&&(L.set([t.x,t.y,t.z,s*i,h*i,e*i],6*R),R++)},m0=(i,s=1,h=1,e=1)=>{let a=0,r=i[a++],n=i[a++],l=i[a++],o=new Float32Array(n*r*3),c=new Uint8Array(3*l),d=0,_=16,p=-16,f=16,u=-16;for(let t=0;t<n*r*3;t+=3)o[t]=(i[a++]-15)*s,o[t+1]=(i[a++]-15)*h,o[t+2]=(i[a++]-15)*e,t<3*n&&(_=Math.min(_,o[t]),p=Math.max(p,o[t]),f=Math.min(f,o[t+1]),u=Math.max(u,o[t+1]));for(let t=0;t<3*l;t+=3)d+=i[a++],c[t]=d,c[t+1]=i[a++],c[t+2]=i[a++];var v=1/(p-_),m=-_*v,M=-1/(u-f),g=u*M;let x=[];for(let t=0;t<r;t++){x.push(H);var y=t*n*3;for(let h=0;h<3*l;h+=3){let i=[],s=[];for(let t=0;t<3;t++){var w=3*c[h+t];i[t]=b(o[y+w],o[y+w+1],o[y+w+2]),s[t]={u:o[0+w]*v+m,v:o[1+w]*M+g}}var k=O(i[2],i[1],i[0]);p0(i[2],k,s[2].u,s[2].v),p0(i[1],k,s[1].u,s[1].v),p0(i[0],k,s[0].u,s[0].v)}}return {f:x,nv:3*l}},M0,g0=128,x0=(t,i,s)=>M0.cm[s*g0*g0+i*g0+t>>3]&1<<(7&t),y0=(i,t)=>{var t=q(t,i),s=C(N(t),16),h=z(t)/16;for(let t=0;t<h;t++)if(i=D(i,s),x0(i.x>>5,i.y>>4,i.z>>5))return i;return null},w0=()=>{var t,i=b();for(t of M0.r)_0(i,0,0,t.t,t.b,t.b,0,36)};class k0{constructor(t,i,s){ this.a=b(), this.v=b(), this.p=t, this.s=b(2,2,2), this.f=0, this.h=50, this.l=0, this._=0, this.m=0, this.M=0, this.g=1, this.k=0, this.F=0, this.T=[1,[0]], this.U=Math.random(), this.q=0, this.C=0, this.N=0, this.O=0, this.Y(i,s)}Y(t,i){}I(){ this.K&& this.j()}H(){if( this._&& this._<tt) this.L();else{ this.a.y=-1200* this.g;var t,i=Math.min( this.f*J0,1); this.v=D( this.v,q(C( this.a,J0),(t= this.v,i=b(i,0,i),b(t.x*i.x,t.y*i.y,t.z*i.z)))), this.R=[[],at,et][ this.N];var s,h= this.m,i=C( this.v,J0),e=Math.ceil(z(i)/16),a=C(i,1/e);for(let i=0;i<e;i++){let t=E( this.p); this.p=D( this.p,a), this.P(b( this.p.x,t.y,t.z))&&(! this.m||! this.q||0< this.v.y|| this.P(b( this.p.x,t.y+ this.m,t.z))?( this.X(0), this.p.x=t.x, this.v.x=- this.v.x* this.M):(t.y+= this.m, this.O=tt),i=e), this.P(b( this.p.x,t.y, this.p.z))&&(! this.m||! this.q||0< this.v.y|| this.P(b( this.p.x,t.y+ this.m, this.p.z))?( this.X(2), this.p.z=t.z, this.v.z=- this.v.z* this.M):(t.y+= this.m, this.O=tt),i=e), this.P( this.p)&&( this.X(1), this.p.y=t.y,s=200<Math.abs( this.v.y)? this.M:0, this.q= this.v.y<0&&!s, this.v.y=- this.v.y*s,i=e), this.m=h}}}P(t){if(! this.l){for(var i of this.R)if(U(t,i.p)< this.s.y+i.s.y)return  this.m=0, this.G(i),!0;return !(! this.q||! this.C||x0(t.x>>5,t.y- this.s.y-8>>4,t.z>>5)||x0(t.x>>5,t.y- this.s.y-24>>4,t.z>>5))||((h,e)=>{for(let s=h.z>>5;s<=e.z>>5;s++)for(let i=h.y>>4;i<=e.y>>4;i++)for(let t=h.x>>5;t<=e.x>>5;t++)if(x0(t,i,s))return !0;return !1})(q(t, this.s),D(t, this.s))}}X(t){}G(t){}j(){ this.U+=J0;let t= this.U/ this.T[0],i=t-(0|t),s= this.T[1][(0|t)% this.T[1].length],h= this.T[1][(1+t|0)% this.T[1].length];h<s&&([h,s]=[s,h],i=1-i),_0( this.p, this.k, this.F, this.V, this.K.f[s], this.K.f[h],i, this.K.nv)}Z(i,s=1,h,e,a){for(let t=0;t<i;t++){let t=dt(z0, this.p);t.K=h,t.V=e,t._=tt+a+Math.random()*a*.2,t.v=b((Math.random()-.5)*s,Math.random()*s,(Math.random()-.5)*s)}}$(t,i){ this.l||( this.h-=i, this.h<=0&& this.L())}B(t){var i=w(k(U( this.p,h0),64,1200,1,0),0,1),s=-1*Math.sin(T( this.p,h0)-a0);e(t,i,0,s)}L(){ this.l=1}}class b0 extends k0{Y(){ this.s=b(12,24,12), this.f=10, this.J=3e3, this.m=17, this.t0=0, this.i0=0, this.h=100, this.N=2, this.s0=[new Z0], this.h0=0, this.k+=nt*Math.PI, this.e0=0,rt= this,at.push( this)}I(){ this.F=w( this.F+M*m.value*(mi.checked?-15e-5:15e-5),-1.5,1.5), this.k=( this.k+v*m.value*15e-5)%(2*Math.PI), this.a=C(F(b(l[4]-l[2],0,l[1]-l[3]), this.k), this.J*( this.q?1:.3)),l[9]&& this.q&& this.t0&&( this.v.y=400, this.q=0, this.t0=0),l[9]||( this.t0=1), this.h0=( this.h0+l[d]+ this.s0.length-l[o])% this.s0.length;let t= this.i0-tt,i= this.s0[ this.h0];l[7]&&t<0&&( this.i0=tt+i.a0,i.r0&&0==i.n0?e(Ht):(i.l0( this.p, this.k, this.F),dt(F0, this.p,10,255)._=tt+.1)), this.e0+=1e-4*z( this.a), this.f= this.q?10:2.5, this.H(),h0.x= this.p.x,h0.z= this.p.z,h0.y= this.p.y+8- -160*w(tt- this.O,0,.1),a0= this.k,e0= this.F,_0(D(h0,A(b(0,.3*Math.sin( this.e0)-10,12+w(k(t,0,i.a0,5,0),0,5)), this.k, this.F)), this.k+Math.PI/2, this.F,i.V,i.K.f[0],i.K.f[0],0,i.K.nv),h.textContent=0| this.h,a.textContent=i.r0?i.n0:"\u221e"}$(t,i){e(Lt),super.$(t,i)}L(){super.L(),h.textContent=0| this.h,pt("YOU DIED"),setTimeout(()=>ot(nt),2e3)}}class A0 extends k0{Y(t,i){ this.K=St, this.V=t, this.h=10, this.s=b(64,64,64), this.o0=E( this.p), this.c0=0, this.k=i*Math.PI/2, this.d0=0, this._0=1==nt,et.push( this),at.push( this)}I(){if( this.j(),U( this.p,rt.p)<128){if( this._0)return void _t("YOU NEED THE KEY..."); this.c0=tt+3} this.c0<tt? this.d0=Math.max(0, this.d0-J0): this.d0=Math.min(1, this.d0+J0), this.p=D( this.o0,F(b(96* this.d0,0,0), this.k))}$(){}}class F0 extends k0{Y(t,i){ this.p0=t, this.f0=tt,1==t&&( this.u0=!0),i||console.log("no color!"), this.v0=[(7&i)<<5,(28&i)<<3,192&i]}I(){ this.u0&&.9<Math.random()&&( this.p0=.5<Math.random()?10:0);let t= this.p0; this._&&( this._<tt&& this.L(),t=k(tt, this.f0, this._,1,0)* this.p0),v0( this.p,t, this.v0[0], this.v0[1], this.v0[2])}}class T0 extends k0{Y(){ this.V=30, this.K=Tt, this.T=[.05,[0,1,2,1,2,0,0,1,2]], this.p.x-=16, this.p.z-=16, this.m0= this.p;for(var t of[b(-32,0,0),b(32,0,0),b(0,0,-32),b(0,0,32)]){D( this.p,t);if(y0( this.p,D( this.p,t))){ this.p=D( this.p,C(t,.4)), this.m0=q( this.p,C(t,2));break}} this.p0=0}I(){super.I(),.8<Math.random()&&( this.p0=Math.random()),v0( this.m0,Math.sin(tt)+ this.p0+6,255,192,16)}}class E0 extends k0{Y(){ this.K=Ft, this.V=21, this.F=Math.PI/2, this.h=10, this.s=b(8,32,8),et.push( this)}L(){for(var t of et){var i=U( this.p,t.p);t!== this&&i<256&&t.$( this,k(i,0,256,60,0))}super.L(), this.B(Zt);for(var s of xt) this.Z(2,600,s,21,1);dt(F0,D( this.p,b(0,16,0)),250,143)._=tt+.2,et=et.filter(t=>t!= this)}}class z0 extends k0{Y(){ this.M=.5, this.f=.1}I(){ this.k+=.001* this.v.y, this.F+=.001* this.v.x, this.H(), this.j()}}class U0 extends k0{Y(){ this.V=8, this.K=Yt, this._=tt+2, this.M=.5, this.M0=120}I(){super.H(), this.j(),v0(D( this.p,b(0,16,0)),.5*(Math.sin(10*tt)+2),255,32,0), this.f= this.q?5:.5}X(t){(1!=t|| this.v.y<-128)&&( this.k+=Math.random(), this.B(Wt))}G(t){ this.L()}L(){for(var t of this.R){var i=U( this.p,t.p);i<196&&t.$( this,k(i,0,196, this.M0,0))}super.L(), this.B(Zt), this.Z(20,800,mt,8,1),dt(F0,D( this.p,b(0,16,0)),250,143)._=tt+.2}}class D0 extends k0{Y(){ this.V=2, this.K=model_nail, this.g=0, this._=tt+3}I(){ this.H(), this.j()}X(t){ this.L(), this.B(Qt), this.Z(2,80,mt,8,.4),dt(F0, this.p,1,255)._=tt+.1}G(t){ this.L(),t.$( this,9)}}class q0 extends k0{Y(){ this.V=21, this.K=model_nail, this.g=0, this._=tt+3}I(){ this.H(), this.j(),v0( this.p,5,255,128,0)}X(t){ this.L(), this.B(Qt), this.Z(2,80,mt,8,.4),dt(F0,D( this.p,b(0,10,0)),5,245)._=tt+.1}G(t){ this.L(),t.$( this,15)}}class C0 extends k0{Y(){ this.V=18, this.M=0, this._=tt+2, this.K=gt, this.k=Math.random(), this.F=Math.random()}I(){super.H(), this.j(), this.f= this.q?15:0}X(t){1==t&& this.v.y<-128&& this.B(It)}G(t){t.$( this,10), this.L()}}class N0 extends k0{Y(){ this.g=0, this._=tt+.1}I(){ this.H()}X(t){ this.L(), this.Z(2,80,mt,4,.4),dt(F0, this.p,.5,255)._=tt+.1}G(t){ this.L(),t.$( this,4)}}class O0 extends k0{Y(t){ this.g0=[[1,[0]],[.4,[1,2,3,4]],[.2,[1,2,3,4]],[.25,[0,5,5,5]],[.25,[5,0,0,0]]], this.x0=[0,0,.1], this.y0=[1,.5,.5], this.w0=[2,1,.3], this.k0=[0,0,.1, this.w0], this.b0=[4,0,.4, this.k0], this.A0=[3,0,.4, this.b0], this.F0=[0,0,.1, this.A0], this.T0=[2,1,.8, this.F0], this.s=b(12,28,12), this.m=17, this.J=196, this.E0= this.k, this.z0=0, this.U0=800, this.D0=96, this.q0=.65, this.C=1, this.C0=1, this.N=1,et.push( this),t?( this.N0( this.y0), this.E0=Math.PI/2*t, this.U=Math.random()): this.N0( this.x0)}N0(t){ this.O0=t, this.T= this.g0[t[0]], this.U=0, this.z0=tt+t[2]+t[2]/4*Math.random()}I(){var t,i; this.z0<tt&&( this.C0=.5<Math.random()?.5:-.5,t=U( this.p,rt.p),i=T( this.p,rt.p), this.O0[3]&& this.N0( this.O0[3]), this.O0== this.w0&&(y0( this.p,rt.p)||( this.E0=i),t< this.U0&&(t< this.D0||Math.random()> this.q0?( this.N0( this.T0), this.E0+=Math.PI/2+Math.random()*Math.PI): this.N0( this.F0))), this.O0== this.k0&&( this.E0=i), this.O0!= this.y0&& this.O0!= this.x0||t<700&&!y0( this.p,rt.p)&& this.N0( this.F0), this.O0== this.F0&&( this.E0=i,y0( this.p,rt.p)&& this.N0( this.T0)), this.O0== this.b0&& this.S0()), this.k+=.1*(i= this.E0- this.k,Math.atan2(Math.sin(i),Math.cos(i))), this.q&&( this.v=F(b(0, this.v.y, this.O0[1]* this.J), this.E0)), this.H(), this.j()}Y0(t,i,s,h){let e=dt(t, this.p);return e.N=1,e.k= this.k+Math.PI/2,e.v=A(b(0,0,i), this.k+s,Math.atan2( this.p.y-rt.p.y,U( this.p,rt.p))+h),e}$(t,i){super.$(t,i), this.B(It), this.O0!= this.x0&& this.O0!= this.y0||( this.E0=T( this.p,rt.p), this.N0( this.w0)), this.Z(2,200,Mt,18,.5)}L(){super.L();for(var t of xt) this.Z(2,300,t,18,1); this.B(Kt),et=et.filter(t=>t!= this)}X(t){1!=t&&( this.O0== this.y0? this.E0+=Math.PI: this.E0+= this.C0)}}class S0 extends O0{Y(t){super.Y(t), this.K=yt, this.V=17, this.h=40}S0(){ this.B(Pt),dt(F0,D( this.p,b(0,30,0)),10,255)._=tt+.1;for(let t=0;t<3;t++) this.Y0(N0,1e4,.08*Math.random()-.04,.08*Math.random()-.04)}}class Y0 extends O0{Y(t){super.Y(t), this.K=wt, this.V=19, this.h=80, this.s=b(14,44,14)}S0(){ this.B(Rt), this.Y0(q0,800,0,0)}}class I0 extends O0{Y(t){super.Y(t), this.K=kt, this.V=20, this.J=96, this.h=200, this.s=b(14,36,14), this.U0=350, this.g0=[[1,[0]],[.8,[1,2,3,4]],[.4,[1,2,3,4]],[.35,[0,5,5,5]],[.35,[5,0,0,0]]]}S0(){ this.B(Vt), this.Y0(U0,600,0,-.4).M0=40}}class K0 extends O0{Y(t){super.Y(t), this.K=bt, this.V=18, this.J=0, this.U0=350, this.h=60, this.g0[3]=[.25,[0,0,5,5]], this.w0=[0,0,.1], this.k0=[0,0,1.1, this.x0], this.b0=[4,0,.4, this.k0], this.A0=[3,0,.4, this.b0], this.F0=[0,0,.1, this.A0], this.T0=[0,0,.1, this.F0], this.N0( this.x0)}$(t,i){60<i&&super.$(t,i)}S0(){ this.B(It), this.Y0(C0,600,0,-.5)}}class j0 extends O0{Y(t){super.Y(t), this.K=At, this.V=22, this.h=25, this.N=1, this.s=b(12,16,12), this.U0=200, this.D0=64, this.q0=.7, this.J=256, this.g0=[[1,[0]],[.15,[0,1]],[.15,[0,1]],[1,[0]],[.1,[0,1,1,1,0,0,0]]], this.y0=[1,.2,.5], this.k0=[0,0,.5, this.w0], this.b0=[4,0,1, this.k0], this.A0=[3,0,0, this.b0], this.F0=[0,0,0, this.A0], this.T0=[2,1,.3, this.F0], this.N0( this.x0)}G(t){ this.I0|| this.O0!= this.b0||( this.I0=1,t.$( this,14))}S0(){ this.B(jt), this.v=F(b(0,250,600), this.E0), this.q=0, this.I0=0, this.C=0,clearTimeout( this.K0), this.K0=setTimeout(()=> this.C=1,1e3)}}class H0 extends k0{Y(){ this.K=Ct, this.s=b(12,12,12), this.k+=Math.PI/2}I(){ this.q|| this.H(), this.j(),U( this.p,rt.p)<40&& this.j0()}}class L0 extends H0{Y(){super.Y(), this.V=21, this.K=Ot}I(){ this.k+=.02,super.I()}j0(){e(sfx_pickup),_t("YOU GOT THE KEY!");for(var t of ht)if(t._0){t._0=0;break} this.L()}}class R0 extends H0{Y(){super.Y(), this.V=12, this.K=Dt}I(){ this.k+=.02,super.I()}j0(){e(sfx_pickup),rt.h0=rt.s0.push(new $0)-1, this.L()}}class P0 extends H0{Y(){super.Y(), this.V=21, this.K=qt}I(){ this.k+=.02,super.I()}j0(){e(sfx_pickup),rt.h0=rt.s0.push(new B0)-1, this.L()}}class X0 extends H0{Y(){super.Y(), this.V=23}j0(){e(sfx_pickup),rt.h+=25, this.L()}}class G0 extends H0{Y(){super.Y(), this.V=24}j0(){for(var t of rt.s0)t instanceof $0&&(t.n0+=50,e(sfx_pickup), this.L())}}class Q0 extends H0{Y(){super.Y(), this.V=25, this.K=Nt}j0(){for(var t of rt.s0)t instanceof B0&&(t.n0+=10,e(sfx_pickup), this.L())}}class V0 extends k0{I(){! this.l&&U( this.p,rt.p)<64&&(ct(), this.l=1)}}class W0{constructor(){ this.r0=1, this.H0=b(0,0,8), this.Y()}l0(t,i,s){ this.r0&& this.n0--,e( this.L0), this.Y0(t,i,s)}Y0(t,i,s){let h=dt( this.R0,D(t,D(b(0,12,0),A( this.H0,i,s))));h.v=A(b(0,0, this.P0),i,s),h.k=i-Math.PI/2,h.F=-s,h.N=2, this.H0.x*=-1}}class Z0 extends W0{Y(){ this.V=7, this.K=Et, this.L0=Pt, this.r0=0, this.a0=.9, this.R0=N0, this.P0=1e4}Y0(i,s,h){setTimeout(()=>e(Xt),200),setTimeout(()=>e(Xt),350);for(let t=0;t<8;t++)super.Y0(i,s+.08*Math.random()-.04,h+.08*Math.random()-.04)}}class $0 extends W0{Y(){ this.V=4, this.K=zt, this.L0=Gt, this.n0=100, this.a0=.09, this.R0=D0, this.P0=1300, this.H0=b(6,0,8)}}class B0 extends W0{Y(){ this.V=21, this.K=Ut, this.L0=Vt, this.n0=10, this.a0=.65, this.R0=U0, this.P0=900}}let J0=0,tt=.016,it,st=0,ht,et,at,rt,nt,lt,ot=t=>{ts.style.display="none",ht=[],et=[],at=[],nt=t,(i=>{M0=i;var s=[b0,S0,Y0,I0,K0,j0,R0,P0,X0,G0,Q0,E0,F0,V0,A0,L0,T0];for(let t=0;t<M0.e.length;){var h=s[i.e[t++]];dt(h,b(32*i.e[t++],16*i.e[t++],32*i.e[t++]),i.e[t++],i.e[t++])}})(ut[nt])},ct=()=>{lt=1},dt=(t,i,s,h)=>{h=new t(i,s,h);return ht.push(h),h},_t=t=>{msg.textContent=t,msg.style.display="block",clearTimeout(st),st=setTimeout(()=>msg.style.display="none",2e3)},pt=(t,i="")=>{ts.innerHTML="<h1>"+t+"</h1>"+i,ts.style.display="block"},ft=t=>{requestAnimationFrame(ft),t*=.001,J0=Math.min(t-(it||t),.05),it=t,tt+=J0,c0(.1,.2,.5);let i=[];for(var s of ht)s.l||(s.I(),i.push(s));ht=i,w0(),d0(),v=M=0,l[d]=l[o]=0,lt&&(lt=0,nt++,2==nt?(pt("THE END","THANKS FOR PLAYING \u2764"),h.textContent=a.textContent="",rt.l=1,h0=b(1856,784,2272),a0=0,e0=.5):ot(nt))},ut,vt,mt,Mt,gt,xt=[],yt,wt,kt,bt,At,Ft,Tt,Et,zt,Ut,Dt,qt,Ct,Nt,Ot,St,Yt,It,Kt,jt,Ht,Lt,Rt,Pt,Xt,Gt,Qt,Vt,Wt,Zt,$t=t=>{c0(),_0(b(0,0,0),0,0,1,model_q.f[0],model_q.f[0],0,model_q.nv),v0(b(200*Math.sin(33e-5*t),100,-100),10,255,192,32),v0(F(b(0,0,100),63e-5*t),10,32,64,255),v0(F(b(100,0,0),53e-5*t),10,196,128,255),d0(),requestAnimationFrame($t)};(async()=>{(()=>{for(var t in Y)null!=Y[t].length&&(Y[t.match(/(^..|[A-Z]|\d.|v$)/g).join("")]=Y[t]);var i=Y.crP();Y.atS(i,n0(35633,I)),Y.atS(i,n0(35632,K)),Y.liP(i),Y.usP(i),P=Y.geUL(i,"c"),X=Y.geUL(i,"l"),G=Y.geUL(i,"m"),Q=Y.geUL(i,"mp"),B=Y.geUL(i,"mr"),J=Y.geUL(i,"f"),Y.biB(34962,Y.crB()),l0(i,"p",3,8,0),l0(i,"t",2,8,3),l0(i,"n",3,8,5),t0=l0(i,"p2",3,8,0),i0=l0(i,"n2",3,8,5),Y.en(2929),Y.en(3042),Y.en(2884),Y.vi(0,0,c.width,c.height)})(),y(t).map(o0),ut=await(async t=>{let r=new Uint8Array(Uint8Array.from(atob(__DATA[t]), c => c.charCodeAt(0)).buffer),n=[];for(let a=0;a<r.length;){let t=r[a++]|r[a++]<<8,h=new Uint8Array(g0*g0*g0>>3),i=(new Uint8Array(g0*g0*g0>>3),r.subarray(a,a+=t)),s=[],e;for(let t=0;t<i.length;){255==i[t]&&(t++,e=i[t++]);var l=i[t++],o=i[t++],c=i[t++],d=i[t++],_=i[t++],p=i[t++];s.push({t:e,b:u0(l<<5,o<<4,c<<5,d<<5,_<<4,p<<5,e)});for(let s=c;s<c+p;s++)for(let i=o;i<o+_;i++)for(let t=l;t<l+d;t++)h[s*g0*g0+i*g0+t>>3]|=1<<(7&t)}var f=r[a++]|r[a++]<<8,f=r.subarray(a,a+=6*f);n.push({cm:h,e:f,r:s})}return n})("l"),vt=await(async t=>{let i=new Uint8Array(Uint8Array.from(atob(__DATA[t]), c => c.charCodeAt(0)).buffer),s=[];for(let t=0;t<i.length;){var h=3*(i[t++]*i[t++]+i[t++]);s.push(i.subarray(t-3,t+=h))}return s})("m"),model_q=m0(vt[3]),mt=m0(vt[0],.1,.1,.1),Mt=m0(vt[0],.1,.2,.1),gt=m0(vt[0],.3,.6,.3),yt=m0(vt[1],2.5,2.2,2.5),wt=m0(vt[1],3,2.7,3),bt=m0(vt[1],1.5,2,1.5),kt=m0(vt[1],4,3,4),At=m0(vt[4],2.5,2.5,2.5),Ft=m0(vt[2],2,2,2),Tt=m0(vt[7],.6,1,.6),Dt=m0(vt[6],1,1,1),qt=m0(vt[2],1,.5,.5),Ct=m0(vt[5],.7,.7,.7),Nt=m0(vt[5],.5,1,.5),Ot=m0(vt[5],.1,.7,.1),St=m0(vt[5],5,5,.5),Et=m0(vt[2],1,.2,.2),Ut=m0(vt[2],.7,.4,.4),zt=m0(vt[6],.7,.7,.7),Yt=m0(vt[2],.3,.3,.3),model_nail=m0(vt[2],.5,.1,.1);for(let i=0;i<204;i+=34){let t=m0(vt[1],2,1,2);t.f[0]+=i,t.nv=34,xt.push(t)}Y.buD(34962,j.subarray(0,8*H),35044),requestAnimationFrame($t),f.onclick=()=>g.requestFullscreen(),g.onclick=()=>{g.onclick=()=>c.requestPointerLock(),g.onclick(),(()=>{n=new AudioContext,n.resume();for(let t=0;t<W;t++)$[t]=Math.sin(6.283184*t/W),$[t+W]=$[t]<0?-1:1,$[t+2*W]=t/W-.5,$[t+3*W]=t<W/2?t/(W/4)-1:3-t/(W/4)})(),setTimeout(()=>{It=s(135,[8,0,0,1,148,1,3,5,0,0,139,1,0,2653,0,2193,255,2,639,119,2,23,0,0,0,0,0,0,0]),Kt=s(140,[7,0,0,1,148,1,7,5,0,1,139,1,0,4611,789,15986,195,2,849,119,3,60,0,0,0,1,10,176,1]),jt=s(132,[8,0,0,1,192,1,8,0,0,1,120,1,0,5614,0,20400,192,1,329,252,1,55,0,0,1,1,8,192,3]),Ht=s(120,[8,0,0,0,96,1,8,0,0,0,0,0,255,0,0,1075,232,1,2132,255,0,0,0,0,0,0,0,0,0]),Lt=s(135,[7,3,140,1,232,3,8,0,9,1,139,3,0,4611,1403,34215,256,4,1316,255,0,0,0,1,0,1,7,255,0]),sfx_pickup=s(140,[7,0,0,1,187,3,8,0,0,1,204,3,0,4298,927,1403,255,0,0,0,3,35,0,0,0,0,0,0,0]),Rt=s(135,[8,0,0,1,147,1,6,0,0,1,159,1,0,197,1234,21759,232,2,2902,255,2,53,0,0,0,0,0,0,0]),Pt=s(135,[7,3,0,1,255,1,6,0,0,1,255,1,112,548,1979,11601,255,2,2902,176,2,77,0,0,1,0,10,255,1]),Xt=s(125,[9,0,0,1,131,1,0,0,0,0,0,3,255,137,22,1776,255,2,4498,176,2,36,2,84,0,0,3,96,0]),Gt=s(130,[7,0,0,1,132,1,8,4,0,1,132,2,162,0,0,8339,232,2,2844,195,2,40,0,0,0,0,0,0,0]),Qt=s(135,[8,0,0,1,148,1,0,0,0,0,0,1,255,0,0,2193,128,2,6982,119,2,23,0,0,0,0,0,0,0]),Vt=s(127,[8,0,0,1,171,1,9,3,0,1,84,3,96,2653,0,13163,159,2,3206,255,2,64,0,0,0,1,9,226,0]),Wt=s(168,[7,0,124,0,128,0,8,5,127,0,128,0,125,88,0,2193,125,1,1238,240,1,91,3,47,0,0,0,0,0]),Zt=s(135,[8,0,0,1,195,1,6,0,0,1,127,1,255,197,1234,21759,232,2,1052,255,4,73,3,25,1,0,10,227,1]),e(((a,r,t,i)=>{let n=V*t,l=new Float32Array(n),o=new Float32Array(n);for(var c of i){let s=new Float32Array(n),h=new Float32Array(n),e=0,t=c[0][20]*a>>1,i=c[0][21]/255;for(let i=0;i<r;i++)for(let t=0;t<32;t++){var d=c[2][c[1][i]-1]?.[t];d&&p(a,d,s,h,e,...c[0]),e+=a}u(t,i,s,h);for(let t=0;t<n;t++)l[t]+=s[t],o[t]+=h[t]}return _(l,o)})(...i),1,1),ot(0),$t=ft},100)}})()},gs();
+</script></body></html>

diff --git a/collections/sources/canvas-tetris.play.html b/collections/sources/canvas-tetris.play.html
@@ -6,7 +6,9 @@
     <title>Neon Canvas Tetris</title>
     <style>
         * { box-sizing: border-box; margin: 0; padding: 0; user-select: none; }
-        body {
+        html, body {
+            height: 100%;
+            overflow: hidden;
             background: #0d0f18;
             color: #e0e6ed;
             font-family: -apple-system, BlinkMacSystemFont, "Segoe UI", Roboto, Helvetica, Arial, sans-serif;
@@ -14,15 +16,14 @@
             flex-direction: column;
             align-items: center;
             justify-content: center;
-            min-height: 100vh;
-            padding: 10px;
+            padding: 4px;
         }
         .header {
             text-align: center;
-            margin-bottom: 12px;
+            margin-bottom: 4px;
         }
         .header h1 {
-            font-size: 26px;
+            font-size: min(20px, 4vh);
             letter-spacing: 2px;
             color: #00f0ff;
             text-shadow: 0 0 10px rgba(0, 240, 255, 0.5);
@@ -47,10 +48,13 @@
             background: #080a10;
             border-radius: 6px;
             box-shadow: inset 0 0 20px rgba(0, 0, 0, 0.8);
+            height: min(60vh, 440px);
+            width: auto;
+            aspect-ratio: 1 / 2;
         }
         #playbutton {
-            margin-top: 14px;
-            padding: 10px 28px;
+            margin-top: 6px;
+            padding: 5px 18px;
             font-size: 16px;
             font-weight: 700;
             letter-spacing: 1px;
@@ -72,7 +76,7 @@
             transform: none;
         }
         .controls-hint {
-            margin-top: 12px;
+            margin-top: 6px;
             font-size: 12px;
             color: #64748b;
             text-align: center;
@@ -81,7 +85,7 @@
         .touch-pad {
             display: flex;
             gap: 10px;
-            margin-top: 12px;
+            margin-top: 6px;
         }
         .touch-btn {
             background: #1e2436;
@@ -105,7 +109,7 @@
     </div>
     <div class="game-container">
         <canvas width="300" height="600"></canvas>
-        <button id="playbutton" onclick="playButtonClicked()">START GAME</button>
+        <button id="playbutton" onclick="playButtonClicked()">RESTART</button>
         <div class="touch-pad">
             <button class="touch-btn" onclick="triggerKey('left')">◀</button>
             <button class="touch-btn" onclick="triggerKey('rotate')">↻</button>
@@ -330,8 +334,10 @@ function valid( offsetX, offsetY, newCurrent ) {
 
 function playButtonClicked() {
     newGame();
-    document.getElementById("playbutton").disabled = true;
 }
+window.addEventListener('load', () => {
+    setTimeout(newGame, 100);
+});
 
 function newGame() {
     clearAllIntervals();

diff --git a/collections/sources/webgl-fluid.play.html b/collections/sources/webgl-fluid.play.html
@@ -62,33 +62,40 @@ SOFTWARE.
 */
 
 'use strict';
+window.ga = window.ga || function(){};
 
 // Mobile promo section
 
 const promoPopup = document.getElementsByClassName('promo')[0];
 const promoPopupClose = document.getElementsByClassName('promo-close')[0];
 
-if (isMobile()) {
+if (isMobile() && promoPopup) {
     setTimeout(() => {
         promoPopup.style.display = 'table';
     }, 20000);
 }
 
-promoPopupClose.addEventListener('click', e => {
-    promoPopup.style.display = 'none';
-});
+if (promoPopupClose) {
+    promoPopupClose.addEventListener('click', e => {
+        if (promoPopup) promoPopup.style.display = 'none';
+    });
+}
 
 const appleLink = document.getElementById('apple_link');
-appleLink.addEventListener('click', e => {
-    ga('send', 'event', 'link promo', 'app');
-    window.open('https://apps.apple.com/us/app/fluid-simulation/id1443124993');
-});
+if (appleLink) {
+    appleLink.addEventListener('click', e => {
+        ga('send', 'event', 'link promo', 'app');
+        window.open('https://apps.apple.com/us/app/fluid-simulation/id1443124993');
+    });
+}
 
 const googleLink = document.getElementById('google_link');
-googleLink.addEventListener('click', e => {
-    ga('send', 'event', 'link promo', 'app');
-    window.open('https://play.google.com/store/apps/details?id=games.paveldogreat.fluidsimfree');
-});
+if (googleLink) {
+    googleLink.addEventListener('click', e => {
+        ga('send', 'event', 'link promo', 'app');
+        window.open('https://play.google.com/store/apps/details?id=games.paveldogreat.fluidsimfree');
+    });
+}
 
 // Simulation section
 
@@ -996,7 +1003,7 @@ let bloomFramebuffers = [];
 let sunrays;
 let sunraysTemp;
 
-let ditheringTexture = createTextureAsync('LDR_LLL1_0.png');
+let ditheringTexture = createTextureAsync(null);
 
 const blurProgram            = new Program(blurVertexShader, blurShader);
 const copyProgram            = new Program(baseVertexShader, copyShader);
@@ -1183,6 +1190,8 @@ function createTextureAsync (url) {
             return id;
         }
     };
+
+    if (!url) return obj;
 
     let image = new Image();
     image.onload = () => {

diff --git a/collections/sources/sand-spiel.play.html b/collections/sources/sand-spiel.play.html
@@ -14,15 +14,15 @@
       flex-direction: column;
       align-items: center;
       justify-content: center;
-      min-height: 100vh;
+      height: 100%; padding: 4px;
       overflow: hidden;
     }
     .header {
-      margin-bottom: 12px;
+      margin-bottom: 4px;
       text-align: center;
     }
     .header h1 {
-      font-size: 22px;
+      font-size: min(18px, 3.5vh);
       color: #f1f5f9;
       letter-spacing: 1px;
       margin-bottom: 4px;
@@ -33,7 +33,7 @@
     }
     .sandbox-container {
       background: #181b26;
-      padding: 12px;
+      padding: 8px;
       border-radius: 12px;
       box-shadow: 0 10px 30px rgba(0,0,0,0.5), 0 0 0 1px rgba(255,255,255,0.06);
       display: flex;
@@ -51,7 +51,7 @@
       display: flex;
       flex-wrap: wrap;
       gap: 8px;
-      margin-top: 12px;
+      margin-top: 6px;
       justify-content: center;
     }
     .btn {
@@ -96,7 +96,7 @@
     <p>Cellular Automata Physics Sandbox · MIT / CC0</p>
   </div>
   <div class="sandbox-container">
-    <canvas id="canvas" width="200" height="200" style="width: 500px; height: 500px; max-width: 90vw; max-height: 90vw;"></canvas>
+    <canvas id="canvas" width="200" height="200" style="height: min(58vh, 380px); width: min(58vh, 380px); max-width: 88vw; aspect-ratio: 1/1;"></canvas>
     <div class="toolbar">
       <button class="btn active" onclick="setElement(1, this)">Sand</button>
       <button class="btn" onclick="setElement(2, this)">Water</button>
@@ -302,7 +302,15 @@
     function loop() {
       update();
       render();
-      requestAnimationFrame(loop);
+      // Seed initial interesting physics
+    for (let x = 50; x <= 110; x++) { grid[110 * W + x] = WOOD; }
+    for (let x = 90; x <= 150; x++) { grid[145 * W + x] = WOOD; }
+    for (let y = 20; y < 65; y++) {
+      for (let x = 70; x < 130; x++) {
+        if (Math.random() < 0.5) grid[y * W + x] = (x < 100) ? SAND : WATER;
+      }
+    }
+    requestAnimationFrame(loop);
     }
 
     function getPos(e) {

diff --git a/src/security.js b/src/security.js
@@ -1,6 +1,6 @@
 export const MAX_HTML_BYTES = 2 * 1024 * 1024;
 export const demoCsp =
-  "sandbox allow-scripts allow-pointer-lock; default-src 'none'; script-src 'unsafe-inline'; style-src 'unsafe-inline'; img-src data: blob:; media-src data: blob:; font-src data:; connect-src 'none'; frame-src 'none'; object-src 'none'; base-uri 'none'; form-action 'none'";
+  "sandbox allow-scripts allow-pointer-lock; default-src 'none'; script-src 'unsafe-inline' 'unsafe-eval' blob:; style-src 'unsafe-inline'; img-src data: blob:; media-src data: blob:; font-src data:; worker-src blob:; child-src blob:; connect-src 'none'; frame-src 'none'; object-src 'none'; base-uri 'none'; form-action 'none'";
 export const mainCsp =
   "default-src 'self'; script-src 'self'; style-src 'self'; img-src 'self' data:; connect-src 'self'; font-src 'self'; object-src 'none'; base-uri 'self'; form-action 'self'; frame-ancestors 'none'";
 
